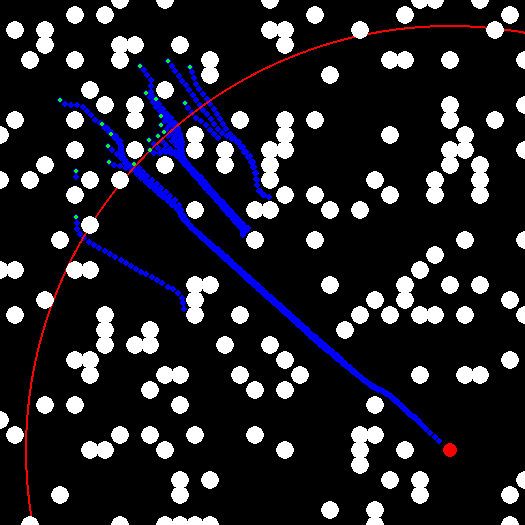
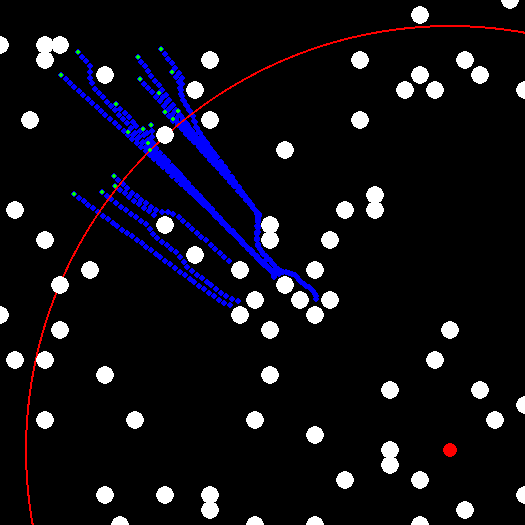
Checking hitting problem

diff --git a/main.py b/main.py
@@ -16,8 +16,8 @@ setup.alpha_t = 10000 * 1
 setup.mu_t = 1 * 0.0017
 setup.alpha_o = 1 * 430
 setup.mu_o = 1000 * 0.0036 
-setup.obst_N_lower = 100 #influenced by values in paper 
-setup.obst_N_upper = 200
+#setup.obst_N_lower = 100 #influenced by values in paper 
+#setup.obst_N_upper = 200
 
 setup.nr_agents = 20
 setup.visual = True 
